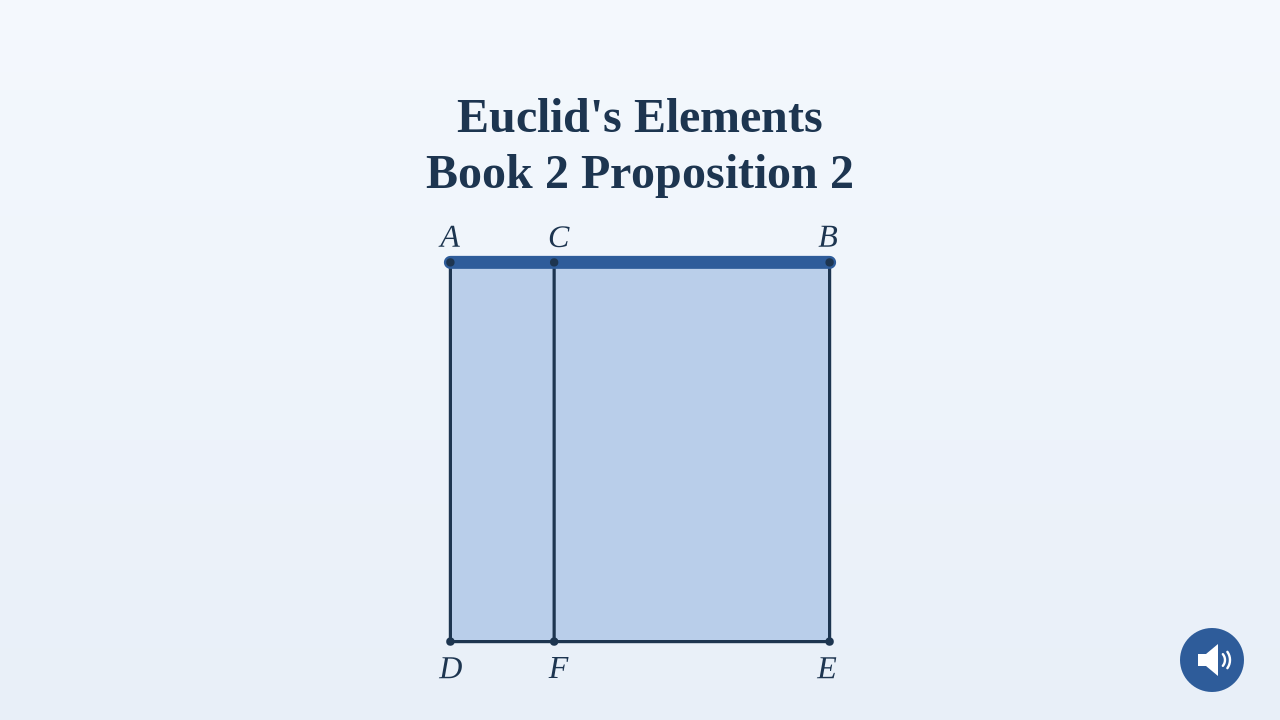
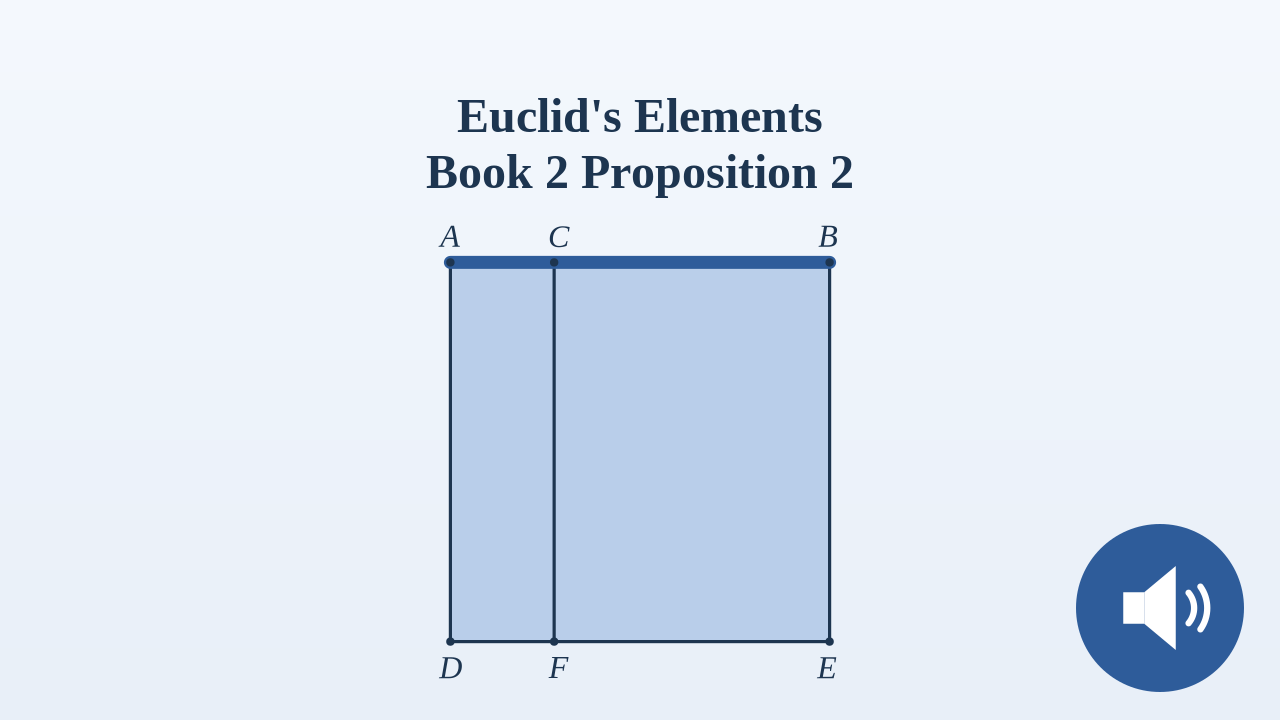
Enlarge the speaker badge on the narrated thumbnail.
64px disappeared on a suggested-video card. The glyph scales with the badge, and the badge stays in the empty corner.

Changed region(s): [[0.8438, 0.7333, 0.9688, 0.9778]]

diff --git a/scripts/youtube_book1_thumbs.py b/scripts/youtube_book1_thumbs.py
@@ -1543,13 +1543,18 @@ def stamp_voice(path: Path) -> None:
     """
     surf = cairo.ImageSurface.create_from_png(str(path))
     cr = cairo.Context(surf)
-    badge = 64
+    # Big enough to read on a suggested-video card, still in the empty margin.
+    badge = 168
     x, y = W - 36 - badge, H - 28 - badge
     cr.set_source_rgb(*rgb(BRICK2))
     cr.arc(x + badge / 2, y + badge / 2, badge / 2, 0, math.tau)
     cr.fill()
+    # Glyph is drawn in the old 64-unit box, then scaled with the badge.
+    cr.save()
+    cr.translate(x, y)
+    cr.scale(badge / 64, badge / 64)
     cr.set_source_rgb(1, 1, 1)
-    sx, sy = x + 18, y + badge / 2
+    sx, sy = 18, 32
     cr.rectangle(sx, sy - 6, 8, 12)
     cr.fill()
     cr.move_to(sx + 8, sy - 6)
@@ -1564,6 +1569,7 @@ def stamp_voice(path: Path) -> None:
     cr.stroke()
     cr.arc(sx + 18, sy, 14, -0.62, 0.62)
     cr.stroke()
+    cr.restore()
     surf.write_to_png(str(path))
 
 
